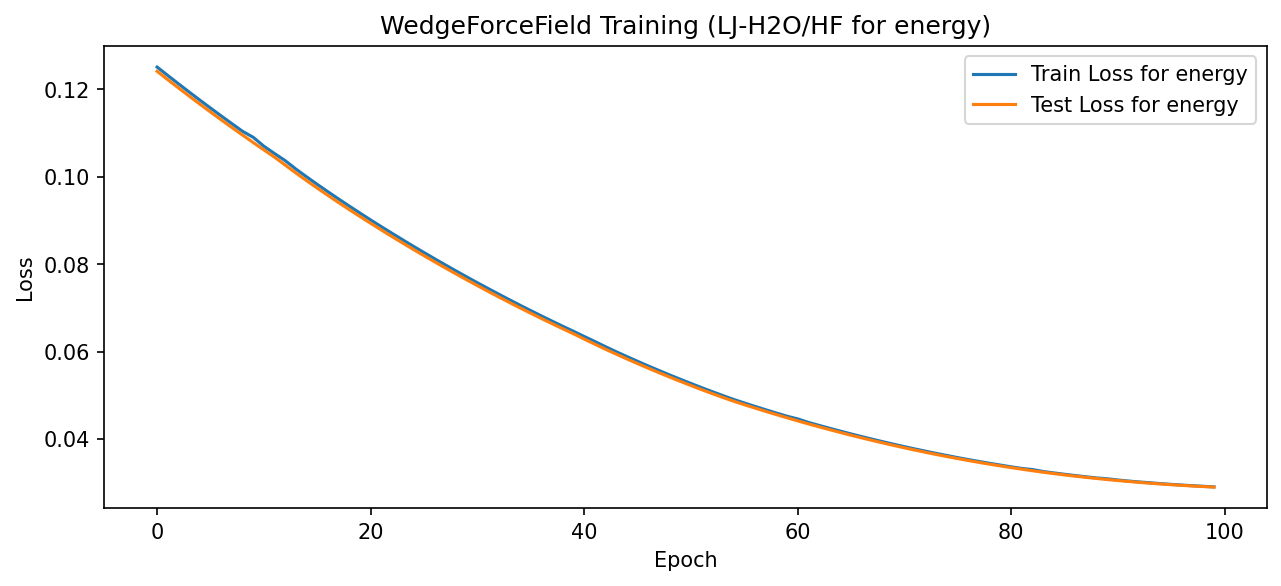
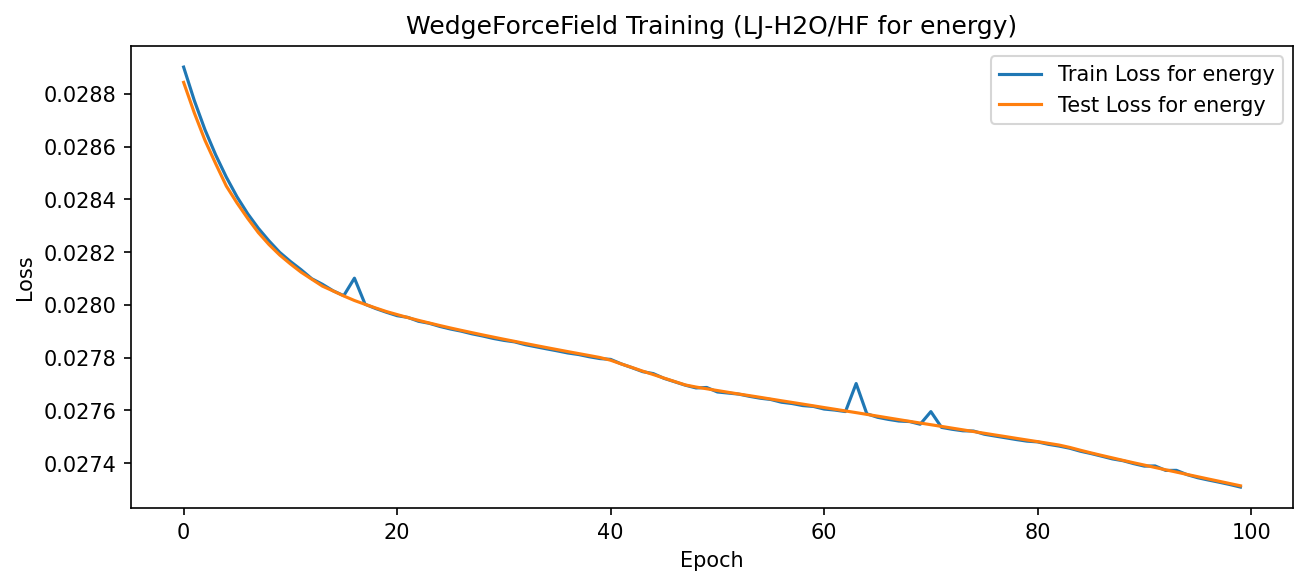
adding learning scheduler

diff --git a/conv_model.py b/conv_model.py
@@ -7,6 +7,7 @@ import numpy as np
 from scipy.spatial.distance import pdist, squareform
 import matplotlib.pyplot as plt
 import os
+import torch.optim.lr_scheduler as lr_scheduler
 
 
 """
@@ -404,6 +405,9 @@ def train_model_50_50(model, train_loader, test_loader, optimizer, epochs):
             optimizer.step()
             epoch_loss += total_loss
 
+        before_lr = optimizer.param_groups[0]['lr']
+        scheduler.step()
+        after_lr = optimizer.param_groups[0]['lr']
         avg_epoch_loss = epoch_loss / len(train_loader)
         print("Running epoch loss tracker:", avg_epoch_loss, "last epoch's loss:", last_epoch_loss) 
         train_losses.append(avg_epoch_loss.detach().numpy())
@@ -591,6 +595,7 @@ def main():
     epochs = 100
     print("Learning rate:", lr)
     optimizer = optim.Adam(model.parameters(), lr)
+    scheduler = lr_scheduler.LinearLR(optimizer, start_factor=1.0, end_factor=0.5, total_iters=30)
     train_losses, test_losses = train_model_energy(model, train_loader, test_loader, optimizer, epochs)
     plot_losses(train_losses, test_losses)
 
